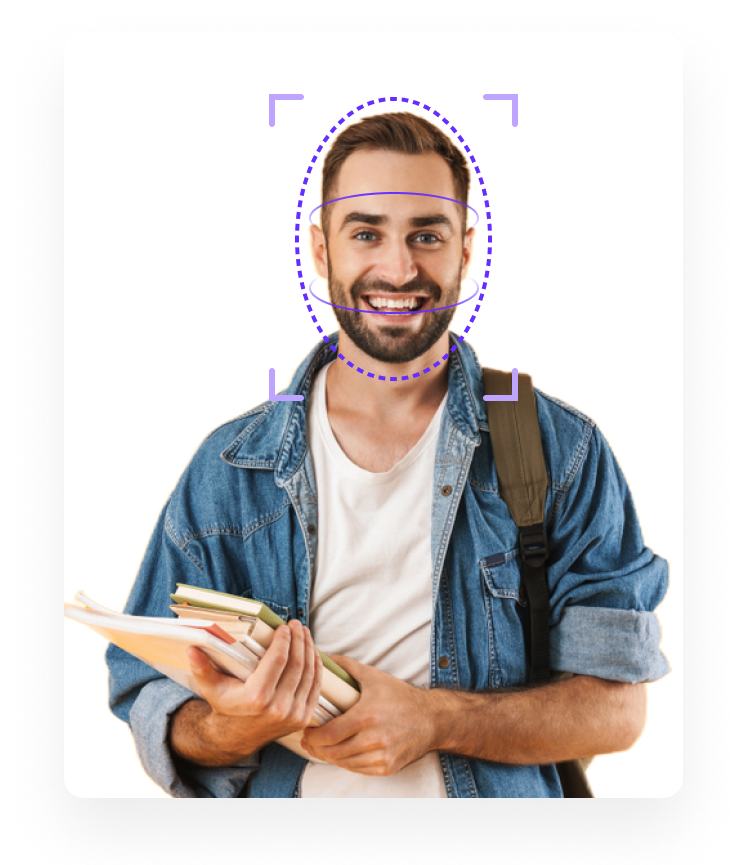
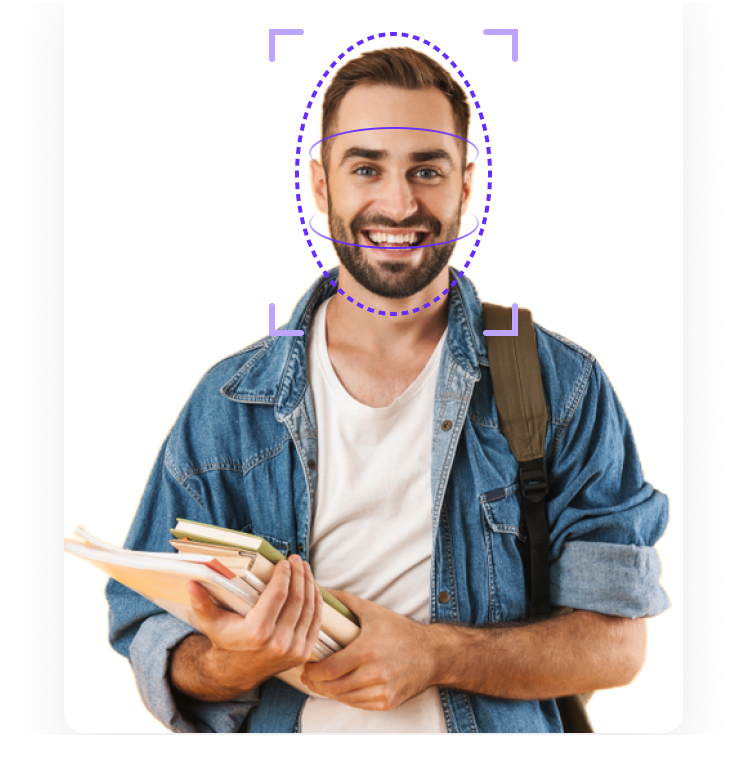
New Design

Changed region(s): [[0.0617, 0.0303, 0.8941, 0.971]]

diff --git a/templates/index.html b/templates/index.html
@@ -1,141 +1,193 @@
-{% extends 'base.html' %} 
-{% block style %}
+{% extends 'base.html' %} {% block style %}
 <style>
-  
   .center {
-    margin: auto;
-    width: 90%;
-    padding: 80px;
-  
+    position: absolute;
+    width: 492px;
+    height: 100px;
+    left: 109px;
+    top: 220px;
+
+    /* Desktop / Display Medium */
+
+    font-family: Poppins;
+    font-style: normal;
+    font-weight: normal;
+    font-size: 48px;
+    line-height: 50px;
+    /* or 104% */
+
+    display: flex;
+    align-items: center;
+    letter-spacing: 1px;
+
+    /* Primary / Default */
+
+    color: #5f2eea;
   }
 
-  .main-img{
-    /* {% comment %} margin: 
-    
+  .main-img {
     position: absolute;
-    width: 38%;
-    left: 650px;
-    top: 60px;
-    border-radius: 20px; {% endcomment %} */
-    width: 400px;
-    position: absolute;
-    right:20px;
-    left: 68%;
+    width: 619px;
+    height: 705px;
+    left: 720px;
+    top: 57px;
+
+    background: #FFFFFF;
+    /* Drop Shadow Large */
+
+    box-shadow: 0px 32px 64px rgba(17, 17, 17, 0.08);
     border-radius: 20px;
-    border: 3px solid rgba(0, 0, 255, 0.592);
   }
 
-  .middle{
-    color: white;
-    background-color: rgba(0, 0, 0, 0.905);
-    padding-bottom: 60px;
+  .middle {
+    position: absolute;
+    width: 276px;
+    height: 152px;
+    left: 100px;
+    top: 570px;
+
+    /* Desktop / Text Large */
+
+    font-family: Poppins;
+    font-style: normal;
+    font-weight: normal;
+    font-size: 24px;
+    line-height: 38px;
+    /* or 158% */
+
+    display: flex;
+    align-items: center;
+    letter-spacing: 0.75px;
+
+    /* Primary / Default */
+
+    color: #5F2EEA;
+
   }
 
-  .middle h2{
-    padding-top:40px ;
-    padding-bottom: 20px;
-    /* border: 3px solid blue; */
-    margin: auto;
+  
+  #login {
+    position: absolute;
+    width: 200px;
+    height: 64px;
+    left: 107px;
+    top: 369px;
+
+    /* Drop Shadow Large */
+
+  }
+
+  #login p{
+    border: 2px solid #5F2EEA;
+    border-radius: 40px;
+    position: absolute;
+    left: 0%;
+    right: 0%;
+    top: 0%;
+    bottom: 0%;
+
+    width: 161px;
+    padding-top: 0px;
+    padding-left: 45px;
+    padding-right: 45px;
+    padding-bottom: 0px;
+
+    /* Desktop / Link Small */
+
+    font-family: Poppins;
+    font-style: normal;
+    font-weight: 600;
+    font-size: 16px;
+    line-height: 28px;
+    /* or 175% */
+
+    display: flex;
+    align-items: center;
     text-align: center;
-    font-size: 40px;
+    letter-spacing: 0.75px;
+
+    /* Grayscale / Background */
+    background: #5F2EEA;
+    color: #F7F7FC;
+
   }
 
-  .middle li{
-    margin-left: 40px;
-    margin-bottom: 10px;
-    padding-left: 34px;
-    width: 40%;
-    /* border: 3px solid blue; */
+  #signup {
+    box-sizing: border-box;
+    border-radius: 40px;
+    position: absolute;
+    width: 200px;
+    height: 64px;
+    left: 280px;
+    top: 369px;
+
+    
   }
 
-  .items{
-    /* border: 3px solid green; */
-    width: 60%;
-    font-size: 30px;
-    top: 50px;
-    left: 30px;
-    position: relative;
-  }
+  #signup p{
+    border: 2px solid #5F2EEA;
+    border-radius: 40px;
+    position: absolute;
+    left: 5%;
+    right: 5%;
+    top: 0%;
+    bottom: 0%;
+    width: 161px;
+    padding-top: 0px;
+    padding-left: 45px;
+    padding-right: 45px;
+    padding-bottom: 0px;
+    /* Desktop / Link Small */
 
-  .items-1{
-    /* border: 3px solid blue; */
-    font-size: 30px;
-    left: 600px;
-    bottom: 60px;
-    margin-left: 20px;
-    padding-left: 40px;
-    position: relative;
-  }
+    font-family: Poppins;
+    font-style: normal;
+    font-weight: 600;
+    font-size: 16px;
+    line-height: 28px;
+    /* or 175% */
 
-  .examples{
-    background-color: white;
-    padding-bottom: 30px;
-    margin: auto;
-    padding-top: 20px;
-  }
-
-  .examples h3{
+    display: flex;
+    align-items: center;
     text-align: center;
-    padding-bottom: 10px ;
-    margin-bottom: 20px;
-    font-size: 40px;
+    letter-spacing: 0.75px;
+
+    /* Primary / Default */
+
+    color: #5F2EEA;
+   
   }
 
-  #snap1{
-    margin-left: 38px;
-    height: 340px;
-    border: 3px solid green;
-  }
 
-  #snap2{
-    border: 3px solid orange;
-    margin-left: 40px;
-    margin-right: auto;
-    height: 340px;
-  }
-
-  .footer{
-    background-color: black;
-    color: white;
-    text-align: center;
-  }
 </style>
-{% endblock style %} 
+{% endblock style %}
 
 {% block BodyHomePage %}
-<div class="body">
-  <div class="main-img-div">
-    <img class="main-img" src="static/images/Main.png" alt="main-img" >
-  </div>  
-  
-  <div class="center">
-    <h1><b>Welcome to,<br> Attendance System</b></h1>
-    <a class="btn btn-primary" href="/login">Login</a>
-    <a href="/logout">{{display_logout}}</a>
-  </div>
-  
-  <div class="middle">
-    <h2><b>Features</b></h2>
-    <ul class="list">
-      <li class="items">Good And Accurate</li>
-      <li class="items">Liveness Detection</li>
-      <li class="items-1">Accuracy upto 90%</li>
-      <li class="items-1">Attendance Marking</li>
-      
-    </ul>  
-  </div>
-  
-  <div class="examples">
-    <h3><b><u>Snapshot</u></b></h3>
-    <img src="static/images/snap1.png" alt="Attendance Demo" id="snap1">
-    <img src="static/images/snap2.png" alt="Recognition Demo" id="snap2">
-  </div>
-  
+<div class="main-img-div">
+  <img class="main-img" src="static/images/Frame.png" alt="main-img" />
 </div>
-<footer class="footer">
-  <div class="text-center p-4" style="background-color: rgba(0, 0, 0, 0.05);">
-    © 2021 Copyright:
-    <a class="text-reset fw-bold" href="https://veerdavlog.blogspot.com/">Veer</a>
-  </div>
-</footer>
+
+<div class="center">
+  <h1>
+    <b>Welcome to,<br />
+      Attendance System</b>
+  </h1>
+</div>
+
+<div class="buttons">
+  <a id="login" href="/login"><p>Login</p></a>
+  
+  <a id="signup" href="/register"><p>Sign Up</p></a>
+  <a id="logout" href="/logout">{{display_logout}}</a>
+</div>
+
+<div class="middle">
+
+  <ul class="list">
+    <li class="items">Good And Accurate</li>
+    <li class="items">Liveness Detection</li>
+    <li class="items-1">Accuracy upto 90%</li>
+    <li class="items-1">Attendance Marking</li>
+  </ul>
+</div>
+
 {% endblock BodyHomePage %}

diff --git a/templates/base.html b/templates/base.html
@@ -24,7 +24,7 @@
 </head>
 
 <body>
-    <nav class="navbar navbar-expand-lg navbar-dark bg-dark">
+    <nav class="navbar navbar-expand-lg navbar-dark " style="background-color: #5F2EEA;">
         <button class="navbar-toggler" type="button" data-toggle="collapse" data-target="#navbarSupportedContent"
             aria-controls="navbarSupportedContent" aria-expanded="false" aria-label="Toggle navigation">
             <span class="navbar-toggler-icon"></span>
